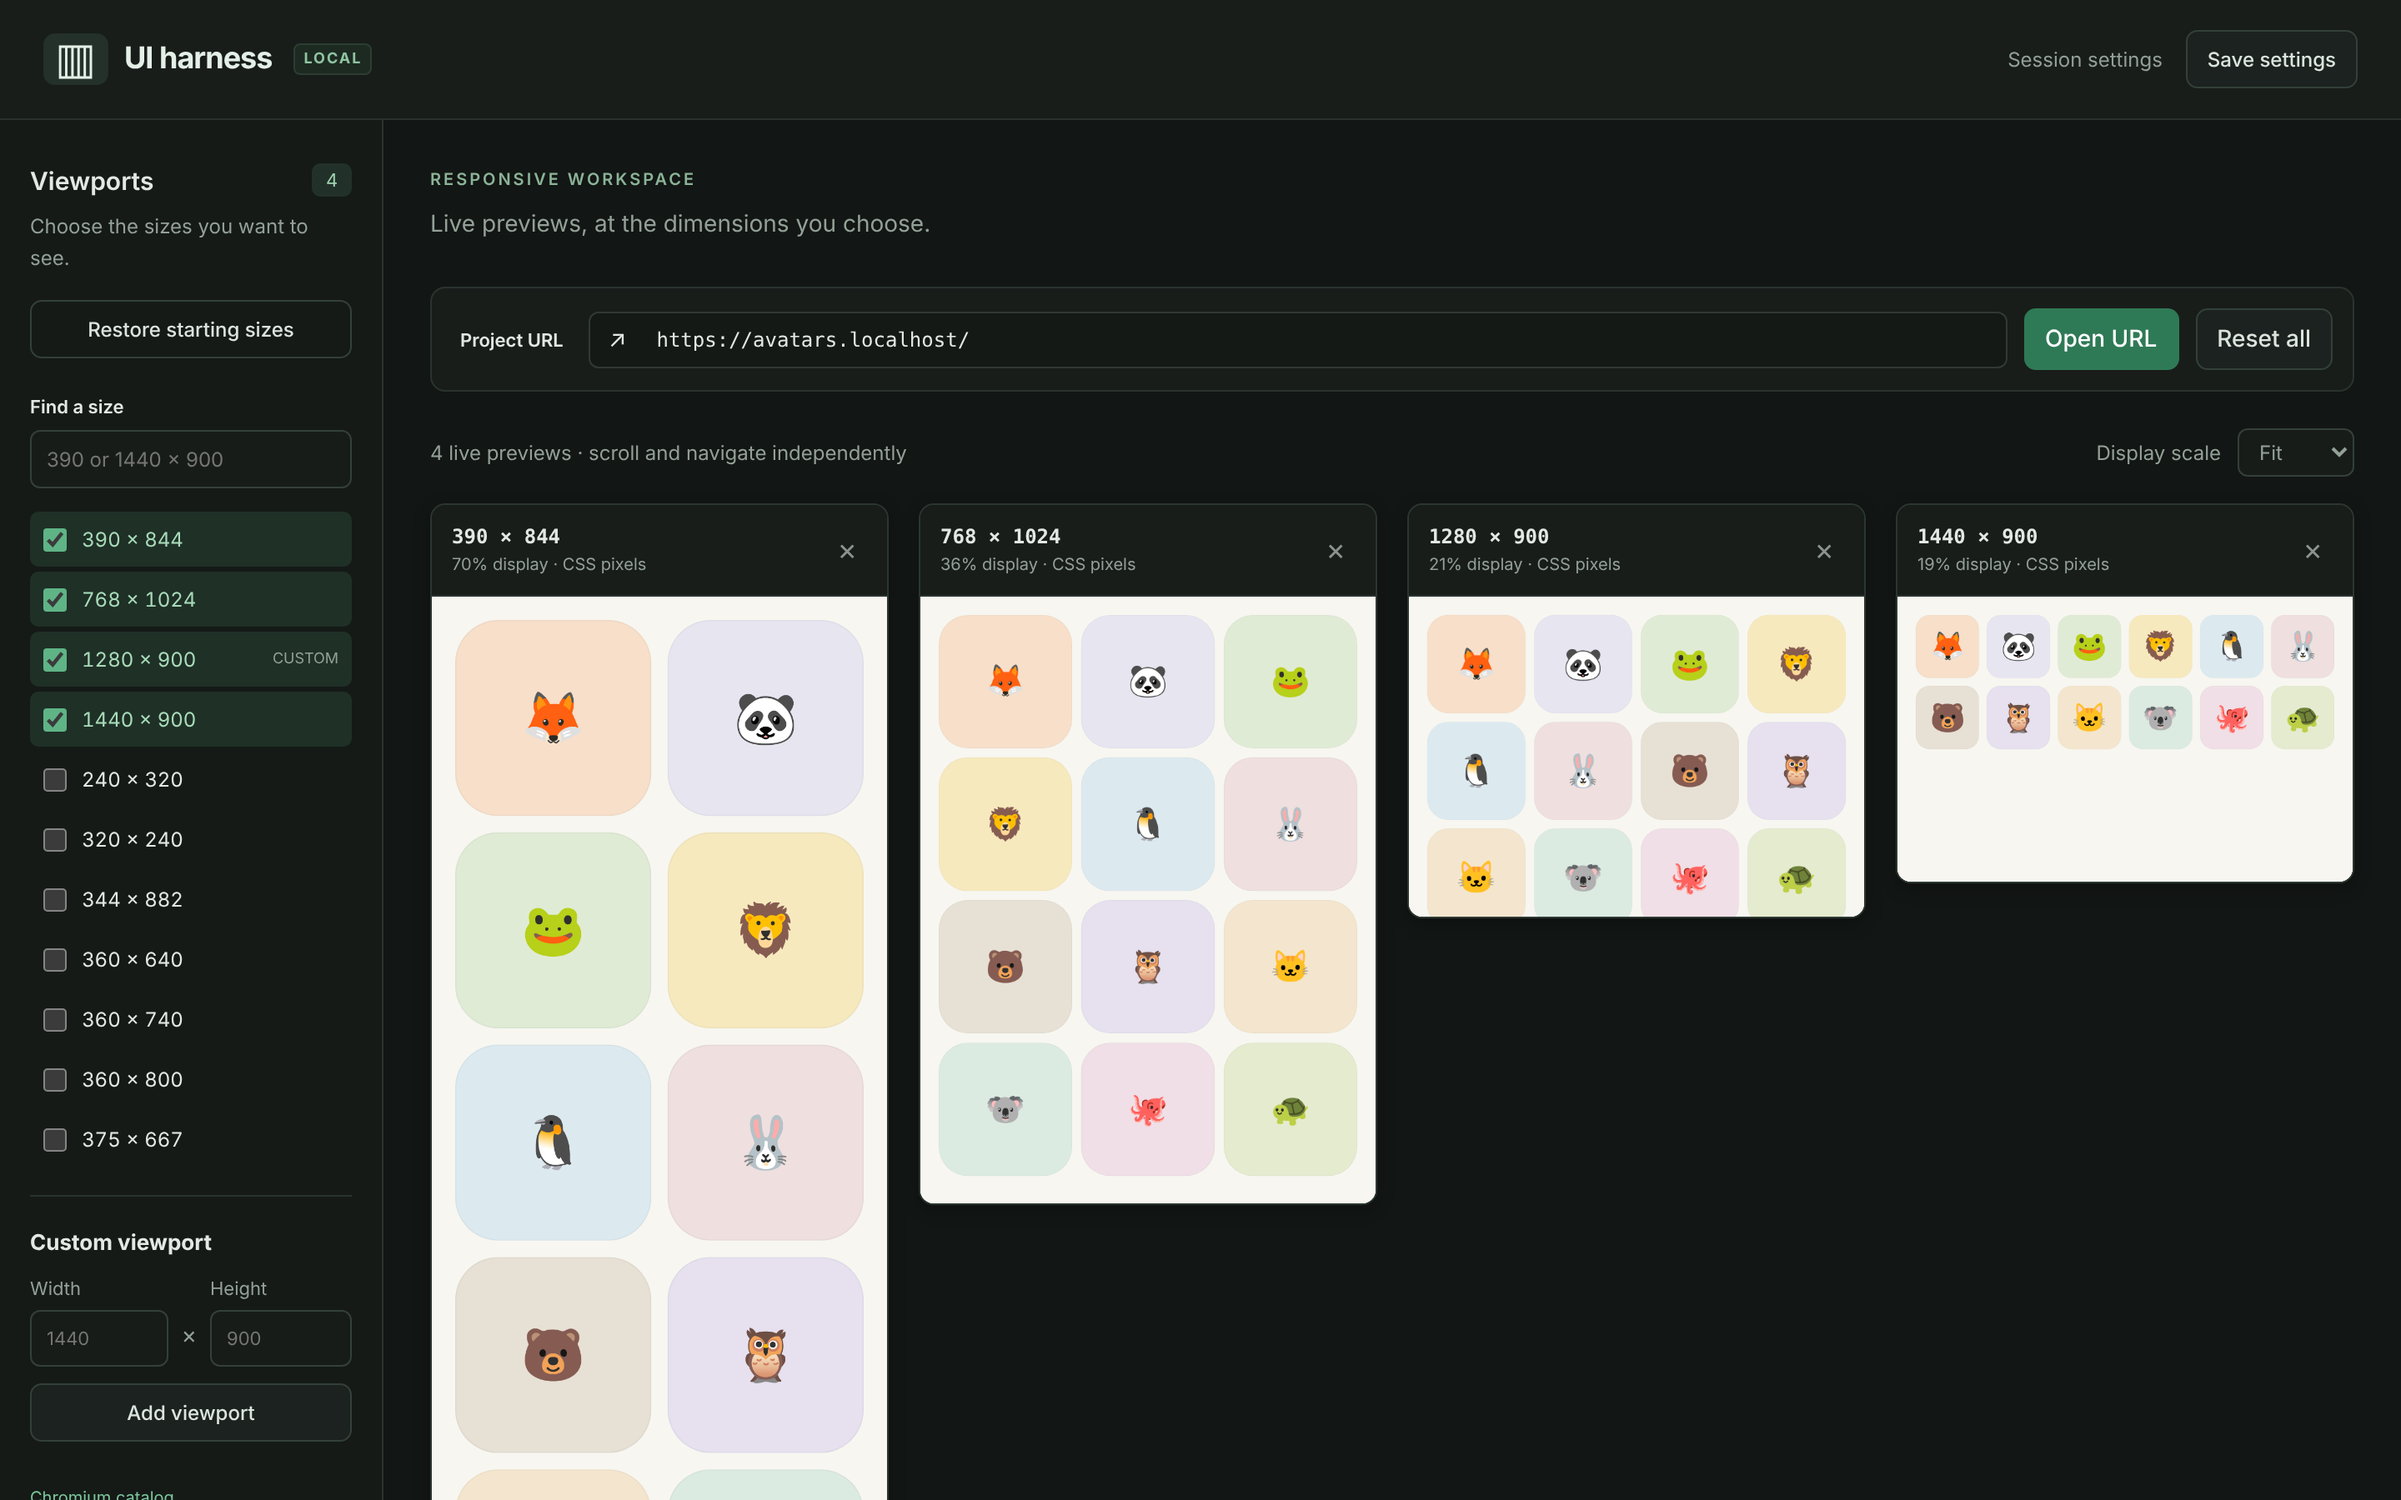
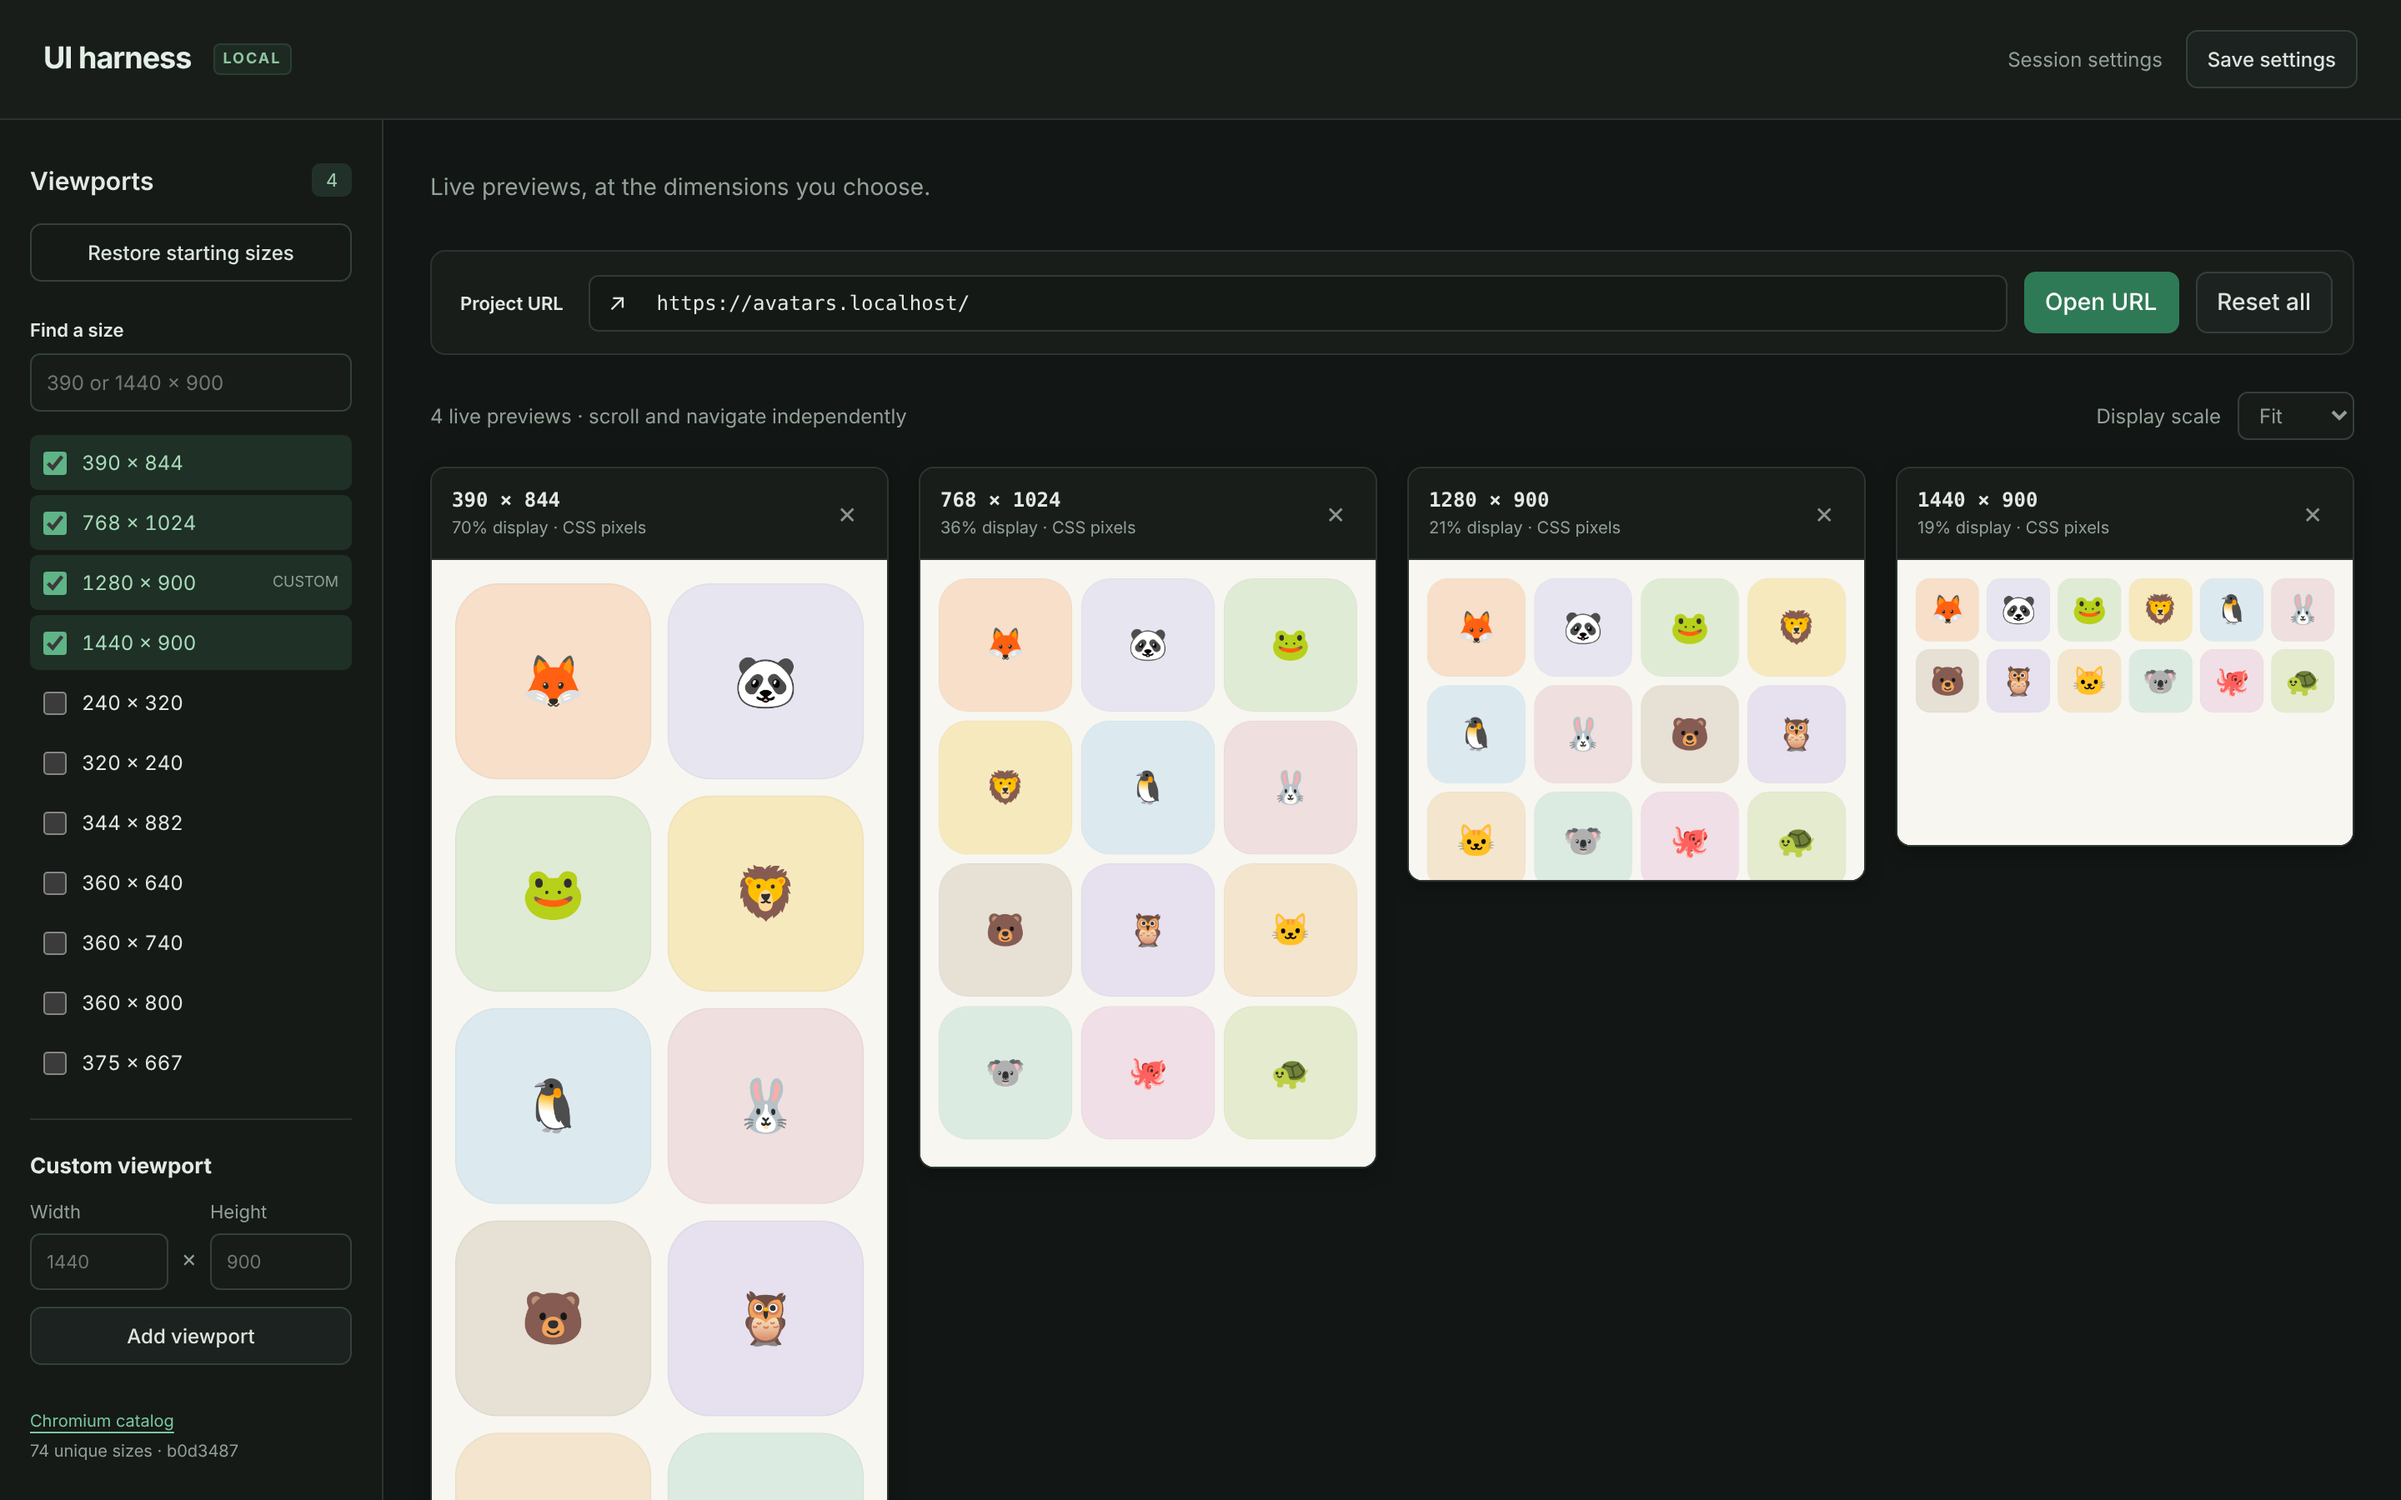
Simplify workspace header and README, update screenshot

diff --git a/web/index.html b/web/index.html
@@ -10,13 +10,12 @@
 </head>
 <body>
   <header class="topbar">
-    <a class="brand" href="./" aria-label="UI harness home"><span class="brand-mark" aria-hidden="true">▥</span> UI harness <span class="local-badge">LOCAL</span></a>
+    <a class="brand" href="./" aria-label="UI harness home">UI harness <span class="local-badge">LOCAL</span></a>
     <div class="save-group"><span id="save-state">Session settings</span><button id="save" type="button">Save settings</button></div>
   </header>
   <main>
     <aside class="sidebar" aria-label="Viewport controls">
       <div class="section-heading"><h2>Viewports</h2><span id="selected-count" class="count">0</span></div>
-      <p class="muted">Choose the sizes you want to see.</p>
       <button id="defaults" type="button" class="subtle">Restore starting sizes</button>
       <label for="search">Find a size</label>
       <input id="search" type="search" placeholder="390 or 1440 × 900" autocomplete="off">
@@ -29,7 +28,7 @@
       <p class="catalog-note"><a id="catalog-source" target="_blank" rel="noreferrer">Chromium catalog</a><br><span id="catalog-info"></span></p>
     </aside>
     <section class="workspace" aria-label="Preview workspace">
-      <div class="intro"><div><p class="eyebrow">RESPONSIVE WORKSPACE</p><p class="muted">Live previews, at the dimensions you choose.</p></div></div>
+      <div class="intro"><div><p class="muted">Live previews, at the dimensions you choose.</p></div></div>
       <form id="navigate" class="urlbar"><label for="target-url">Project URL</label><div class="url-input"><span aria-hidden="true">↗</span><input id="target-url" type="text" inputmode="url" required spellcheck="false" placeholder="http://localhost:4173"></div><button type="submit" class="primary">Open URL</button><button id="reload" type="button" title="Return every preview to the project URL">Reset all</button></form>
       <div class="workspace-toolbar"><p id="preview-summary">Loading workspace…</p><div class="scale-controls"><label for="scale">Display scale</label><select id="scale"><option value="fit">Fit</option><option value="0.25">25%</option><option value="0.5">50%</option><option value="0.75">75%</option><option value="1">100%</option></select></div></div>
       <p id="message" role="status" aria-live="polite"></p>

diff --git a/web/style.css b/web/style.css
@@ -14,7 +14,6 @@ a { color: var(--accent); text-underline-offset: 3px; }
 h1, h2, h3, p { margin: 0; }
 .topbar { min-height: 72px; display: flex; justify-content: space-between; align-items: center; gap: 16px; padding: 16px 26px; border-bottom: 1px solid var(--border); background: #181d1a; }
 .brand { display: flex; align-items: center; gap: 10px; color: #e3efe7; text-decoration: none; font-size: 18px; font-weight: 700; letter-spacing: -.5px; }
-.brand-mark { background: #24302a; border-radius: 7px; padding: 0 7px; font-size: 26px; }
 .local-badge { margin-left: 3px; color: #8fc4a1; background: #1d2a22; border: 1px solid #2c3d32; border-radius: 4px; padding: 3px 5px; font-size: 9px; letter-spacing: 1px; }
 .save-group { display: flex; align-items: center; gap: 14px; font-size: 12px; color: var(--muted); }
 main { display: grid; grid-template-columns: 230px minmax(0, 1fr); min-height: calc(100vh - 72px); }
@@ -24,7 +23,6 @@ h2 { font-size: 15px; font-weight: 650; }
 h3 { font-size: 13px; margin-bottom: 12px; }
 .count { background: #22302a; border-radius: 5px; min-width: 24px; padding: 3px 6px; text-align: center; color: #9fd1b0; font-size: 11px; }
 .muted { color: var(--muted); line-height: 1.6; }
-.sidebar > .muted { margin-top: 8px; font-size: 12px; }
 .subtle { background: transparent; font-size: 12px; width: 100%; margin: 16px 0 22px; }
 .sidebar > label { display: block; font-size: 11px; font-weight: 650; margin-bottom: 7px; }
 #search { width: 100%; font-size: 12px; }
@@ -42,7 +40,6 @@ h3 { font-size: 13px; margin-bottom: 12px; }
 .custom button { margin-top: 10px; width: 100%; font-size: 12px; }
 .catalog-note { margin-top: 25px; font-size: 10px; color: var(--muted); line-height: 1.8; }
 .workspace { padding: 30px 28px 24px; min-width: 0; }
-.eyebrow { color: #8bb397; font-size: 10px; font-weight: 650; letter-spacing: 1.5px; margin-bottom: 10px; }
 h1 { font-size: clamp(23px, 2.2vw, 32px); letter-spacing: -.9px; font-weight: 600; margin-bottom: 7px; }
 .intro { margin-bottom: 26px; }
 .urlbar { display: flex; align-items: center; gap: 10px; background: #181d1a; border: 1px solid var(--border); border-radius: 9px; padding: 12px; }

diff --git a/README.md b/README.md
@@ -18,20 +18,6 @@ four default viewports, 5 runs), checking a fixture page took on average:
 | Image tokens, Anthropic estimate | 4222.656 | 1600 |
 | Image tokens, OpenAI estimate | 3400 | 1105 |
 
-A screenshot of only the previews strip is 804.7226666666667 Anthropic tokens.
-Wall-clock time was about the same (224.58540699999966 ms against
-252.95801720000023 ms); the benchmark shows no time saving.
-
-The combined view is for layout: column counts, navigation state, overflow, and
-alignment. At Fit scale the 1280 and 1440 previews render 16px text at about 3px,
-so read text and small details at 100%. That follow-up costs more than the
-resize-and-capture approach; the benchmark has the numbers.
-
-The CLI is tested as a packed npm package running outside the checkout, through
-the real HTTPS proxy, on Linux and macOS in CI. Setup that needs administrator
-rights is a separate command; workspace launches never ask for it, so an
-unattended agent can launch safely after one interactive setup.
-
 ## Run
 
 Complete first-run setup below once. Start your application's development server,
